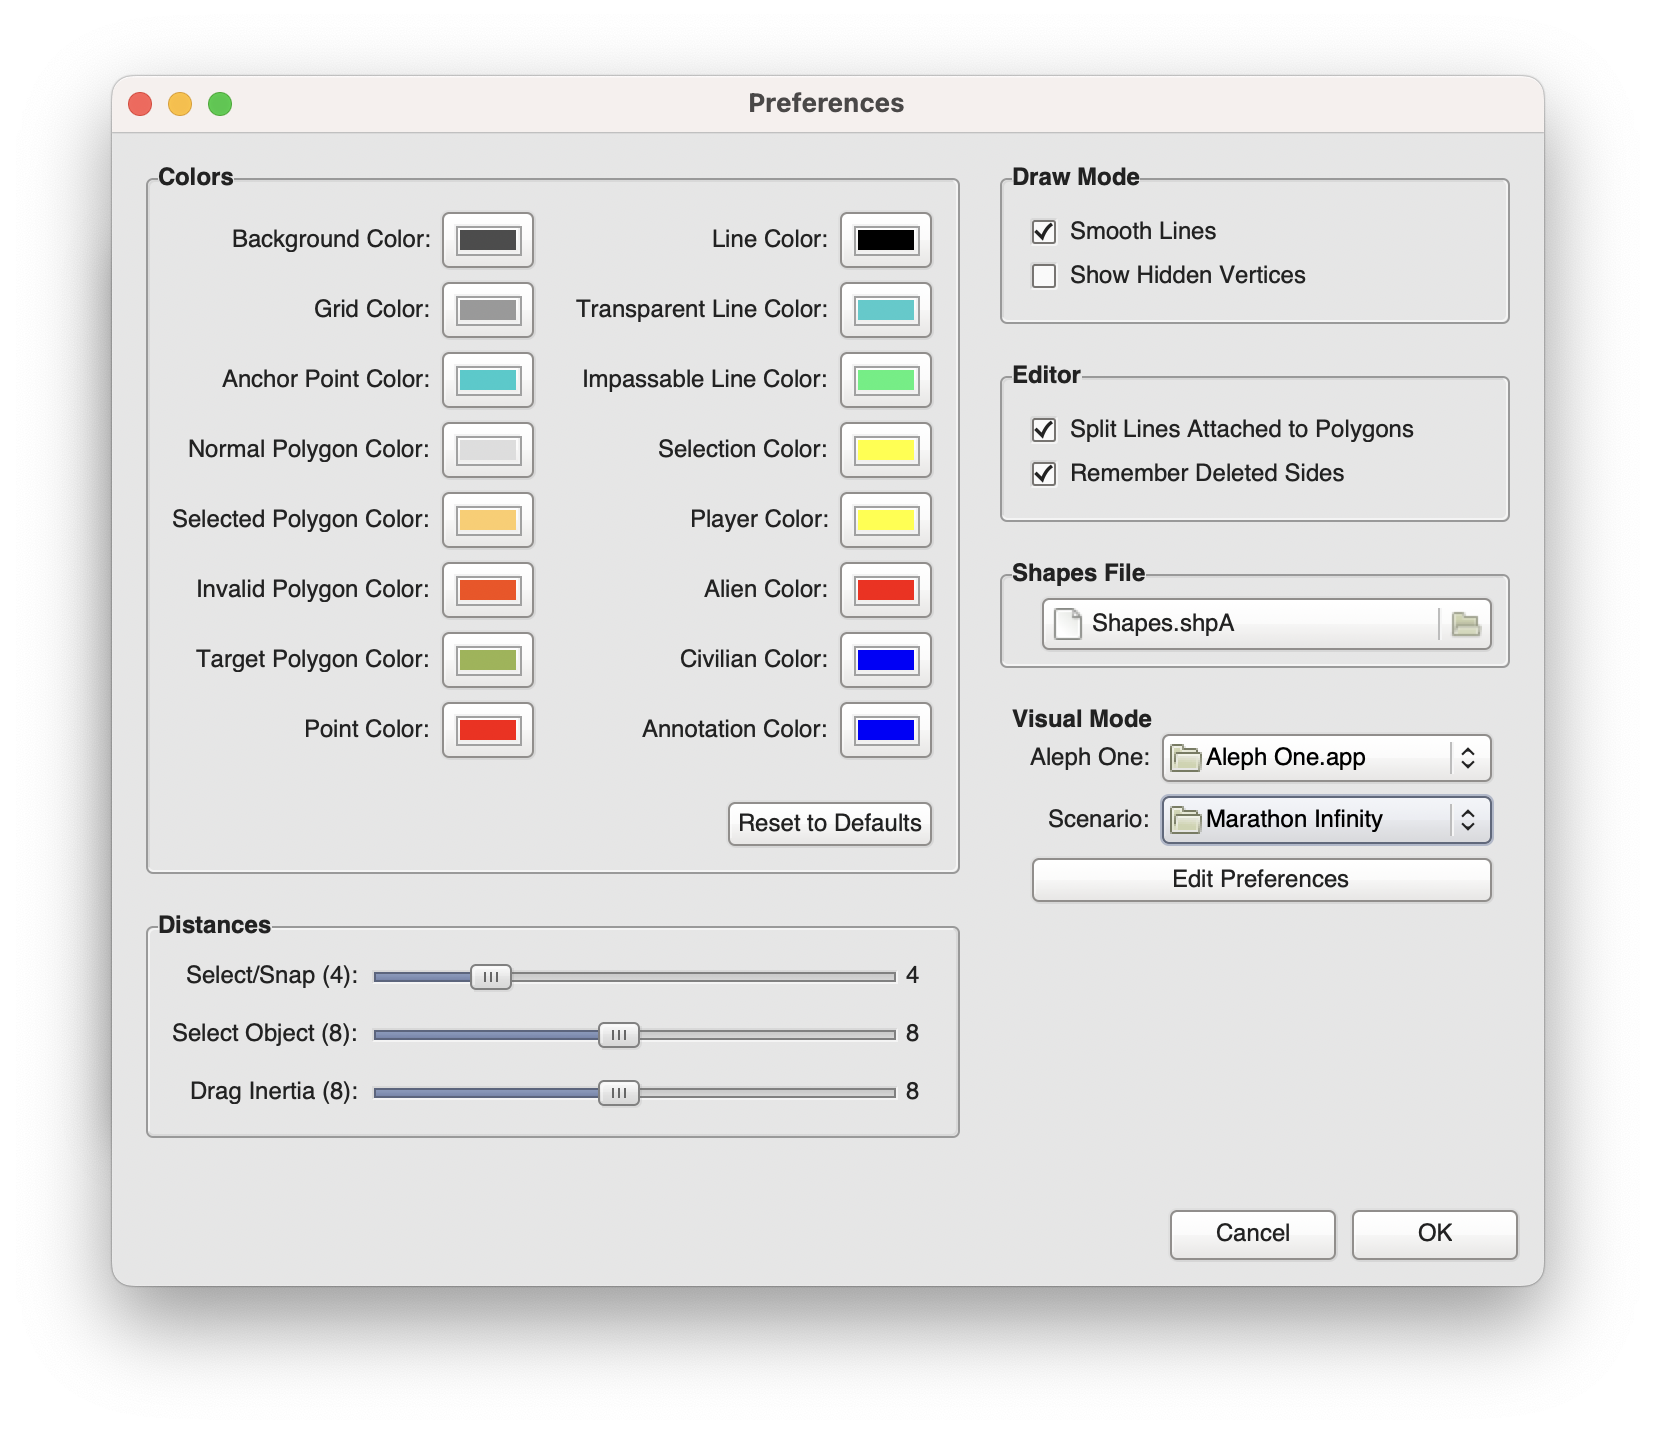
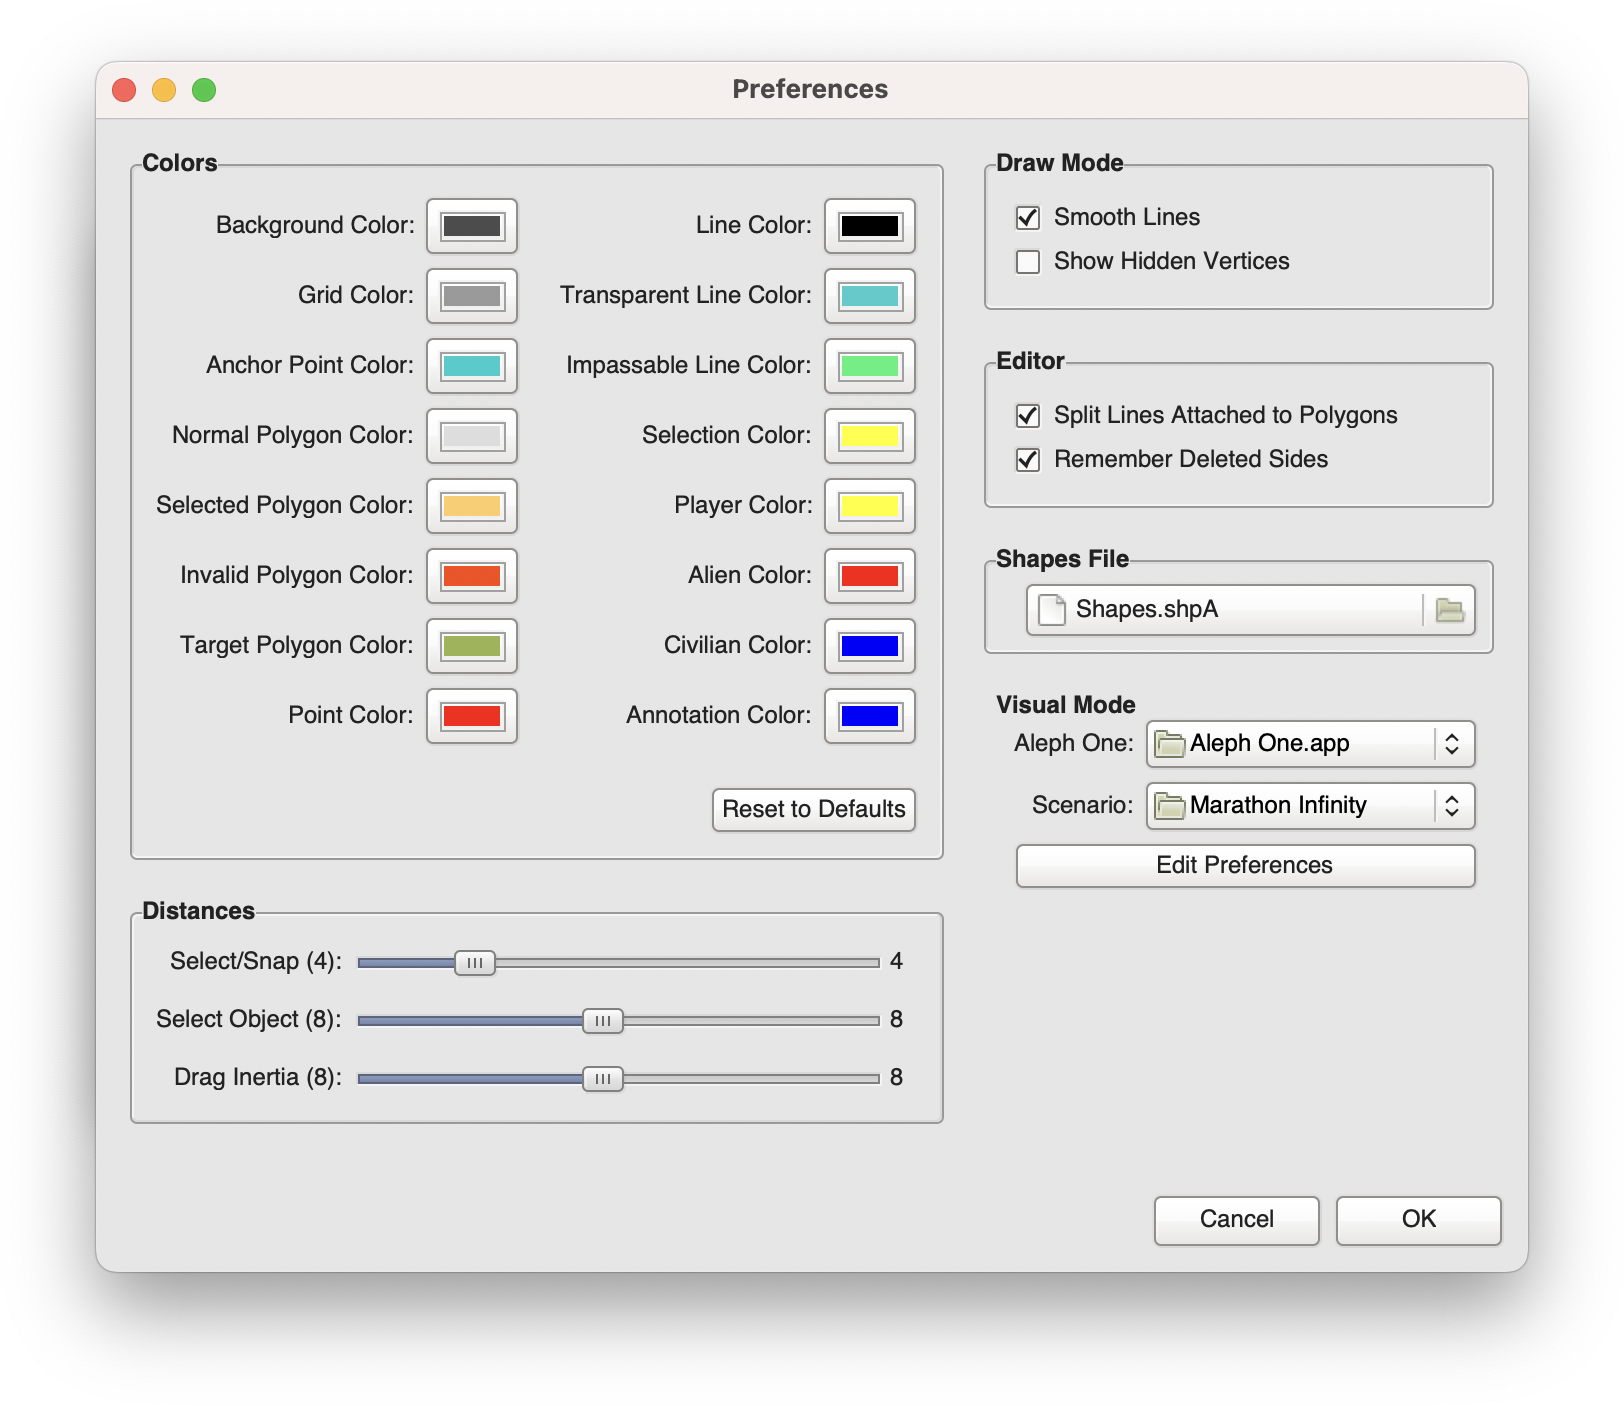
add preferences dialog

diff --git a/forgemanual.html b/forgemanual.html
@@ -151,6 +151,8 @@ window.onload = function () {makeAllSortable();};
 				<p>Will undo the most recently performed action.</p>
 
 			<h4 id="preferences">Preferences...</h4>
+
+			<div class="image" style="margin: -6px;"><img src="images/preferences.png" width="812" height="703" title="Weland Preferences" alt="Weland Preferences" /></div>
 				<p>There are three Preferences in this section. <strong>Graphics</strong> lets you modify Visual Mode resolutions and brightness. <strong>Key Settings</strong> allows you to modify keyboard settings.</p>
 
 					<blockquote><em>[In Weland, you edit both of these by clicking &lsquo;<strong>Edit Preferences</strong>&rsquo; underneath <strong>Scenario</strong> in the <strong>Visual Mode</strong> section, then editing Aleph One&rsquo;s settings. For detailed information on setting up Visual Mode, see <a href="mapmaking101.html#welandsetup">my Weland setup guide</a>. &ndash;&#8288;Ed.]</em></blockquote>
@@ -168,7 +170,7 @@ window.onload = function () {makeAllSortable();};
 							</li>
 							<li>&lsquo;<strong>Editor</strong>&rsquo; also contains two options, both of which are new to Weland:
 								<ul>
-									<li>&lsquo;<strong>Split Lines Attached to Polygons</strong>&rsquo; allows mapmakers to split lines of filled polygons that have fewer than 8 vertices. Note that all sides that are split in this way will currently be marked as &lsquo;Solid&rsquo;, regardless of whether they originally were.</li>
+									<li>&lsquo;<strong>Split Lines Attached to Polygons</strong>&rsquo; allows mapmakers to split lines of filled polygons that have fewer than <span class="decimal">8</span> vertices. Note that all sides that are split in this way will currently be marked as &lsquo;Solid&rsquo;, regardless of whether they originally were.</li>
 									<li>&lsquo;<strong>Remember Deleted Sides</strong>&rsquo; (sometimes) remembers the textures of sides attached to polygons that are deleted and then re-filled.</li>
 								</ul>
 							</li>
